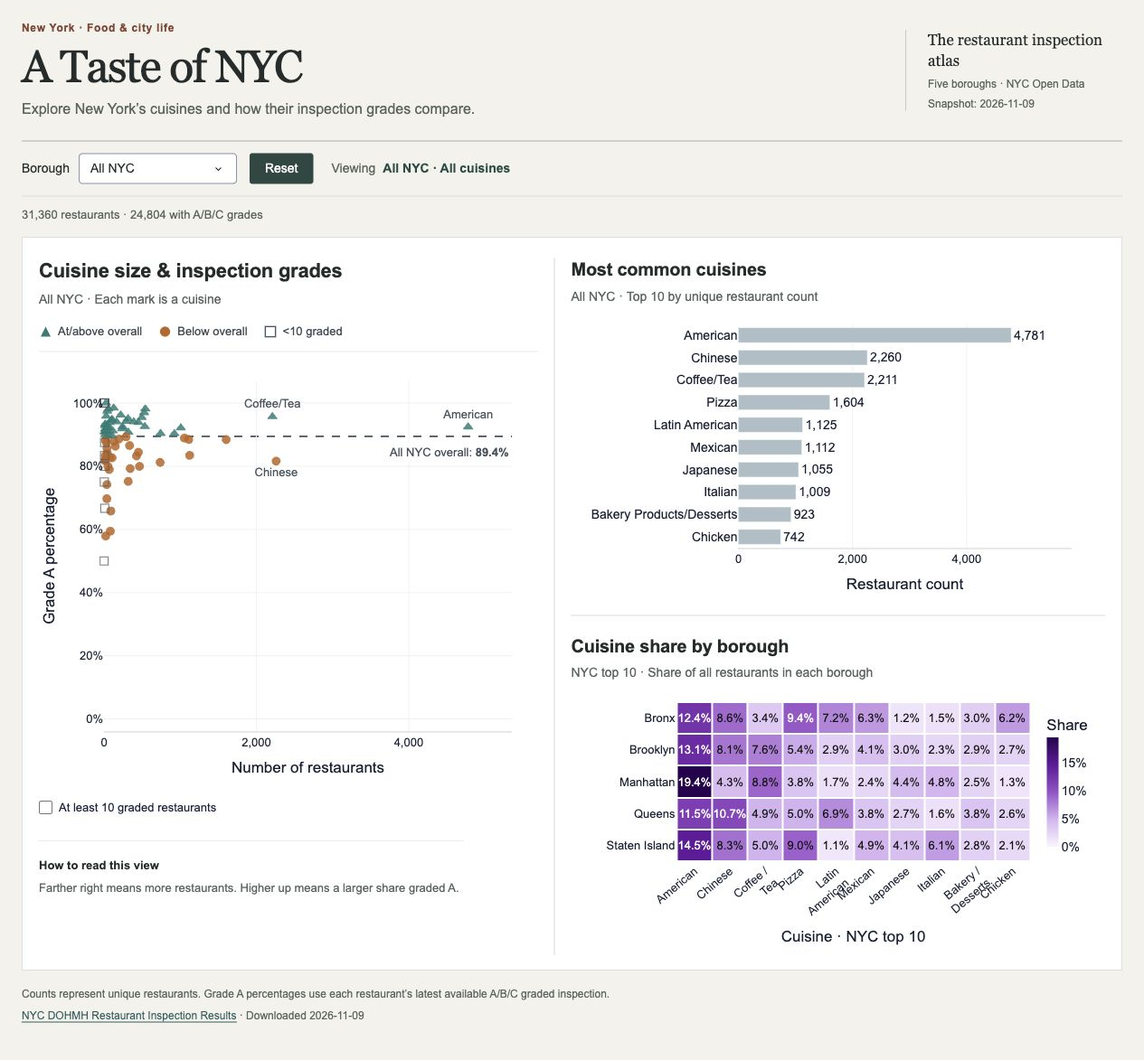
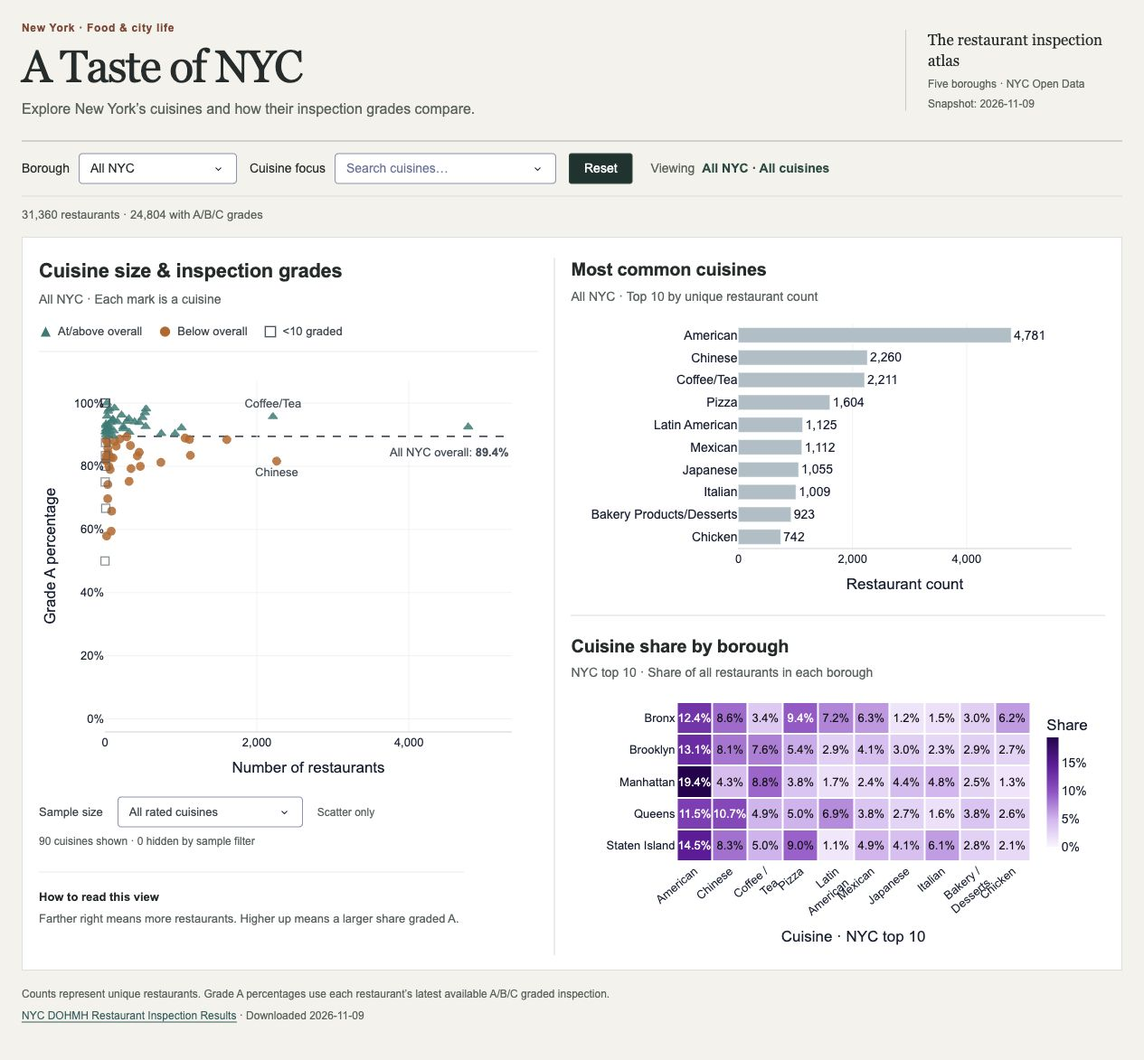
Add searchable cuisine focus and graded sample thresholds

diff --git a/a-taste-of-nyc/assets/style.css b/a-taste-of-nyc/assets/style.css
@@ -13,6 +13,9 @@ h1 { font-family: Georgia, serif; font-size: 50px; font-weight: 500; letter-spac
 .controls { display: flex; align-items: center; flex-wrap: wrap; gap: 14px; border-top: 1px solid #a6b2a8; border-bottom: 1px solid var(--line); padding: 13px 0; }
 .filter { display: flex; align-items: center; gap: 10px; font-size: 14px; }
 #borough { width: 175px; font-size: 14px; }
+#cuisine-focus { width: 245px; font-size: 14px; }
+#sample-filter { width: 205px; font-size: 13px; }
+.filter-scope { font-size: 12px; color: var(--muted); }
 button { background: #2c4742; color: #fff; border: 1px solid #2c4742; border-radius: 3px; padding: 8px 16px; font-size: 14px; font-weight: 400; cursor: pointer; }
 button:hover { background: #1b342f; }
 button:focus-visible, a:focus-visible { outline: 2px solid var(--accent); outline-offset: 3px; }
@@ -33,8 +36,8 @@ h2 { margin: 0; font-size: 21px; line-height: 1.3; font-weight: 600; letter-spac
 .key-mark { display: inline-block; width: 15px; height: 15px; flex-shrink: 0; }
 .sample-controls { display: flex; flex-wrap: wrap; align-items: center; gap: 6px 16px; margin-top: 12px; font-size: 13px; color: #414a50; }
 .sample-controls label { display: inline-flex; align-items: center; gap: 7px; font-weight: 400; cursor: pointer; }
-.sample-controls input { accent-color: var(--accent); width: 15px; height: 15px; margin: 0; }
-#sample-status { color: var(--muted); font-size: 12px; }
+
+#sample-status { flex-basis: 100%; line-height: 1.5; color: var(--muted); font-size: 12px; }
 #sample-status:empty { display: none; }
 footer { margin-top: 16px; line-height: 1.6; color: var(--muted); font-size: 12px; }
 footer p { margin: 0 0 5px; }
@@ -42,4 +45,4 @@ a { color: var(--accent); text-underline-offset: 3px; }
 @media (max-width: 1400px) { .page { padding: 24px; } .hint { display: none; } .chart-grid { padding: 22px 18px 16px; gap: 18px; } .right-column { padding-left: 18px; } .scatter-panel h2 { font-size: 22px; } h2 { font-size: 20px; } .edition { max-width: 240px; } }
 @media (max-width: 1150px) { .chart-grid { grid-template-columns: 1fr; gap: 30px; } .right-column { border-left: 0; padding-left: 0; gap: 26px; } .scatter-plot { height: 420px !important; } .reading-note { max-width: none; } }
 @media (max-width: 700px) { header { display: block; } .edition { display: none; } .heatmap-plot { min-width: 680px; } .panel:has(.heatmap-plot) { overflow-x: auto; } .panel:has(.heatmap-plot) .chart-subtitle::after { content: "Scroll horizontally to compare all cuisines →"; display: block; margin-top: 6px; color: var(--accent); } }
-@media (max-width: 550px) { .page { padding: 20px 12px; } h1 { font-size: 40px; } .intro { font-size: 15px; } header { margin-bottom: 18px; } .controls { gap: 10px; } .selection { margin-left: 0; width: 100%; flex-wrap: wrap; } #borough { width: 145px; } button { padding: 9px 13px; } .chart-grid { padding: 20px 12px; } h2, .scatter-panel h2 { font-size: 20px; } }
+@media (max-width: 550px) { .page { padding: 20px 12px; } h1 { font-size: 40px; } .intro { font-size: 15px; } header { margin-bottom: 18px; } .controls { gap: 10px; } .cuisine-filter { order: 1; width: 100%; } #cuisine-focus { flex: 1; width: auto; min-width: 0; } .selection { order: 2; } .selection { margin-left: 0; width: 100%; flex-wrap: wrap; } #borough { width: 145px; } button { padding: 9px 13px; } .chart-grid { padding: 20px 12px; } h2, .scatter-panel h2 { font-size: 20px; } }

diff --git a/a-taste-of-nyc/app.py b/a-taste-of-nyc/app.py
@@ -20,6 +20,7 @@ SMALL_SAMPLE = "#4a5963"
 BAR_BACKGROUND = "#aebfc6"
 SELECTED = "#355e6a"
 MISSING_CUISINE = "Unknown"
+SAMPLE_LIMITS = (1, 10, 25, 50, 100)
 HEAT_COLORS = [[0, "#faf5ff"], [0.25, "#d7b5f1"], [0.5, "#9950c9"], [0.75, "#63169b"], [1, "#29004f"]]
 INK = "#172033"
 CONFIG = {"displayModeBar": False, "responsive": True, "scrollZoom": False}
@@ -266,8 +267,6 @@ def select_state(trigger, borough, click_data, selected, heat_cuisines):
         cuisine = custom[0] if isinstance(custom, (list, tuple)) and custom else point.get("y") if trigger == "bar" else None
         if cuisine in heat_cuisines:
             selected = cuisine
-    if trigger == "borough":
-        selected = None
     return borough if borough in ["All NYC", *BOROUGHS] else "All NYC", selected
 
 
@@ -290,6 +289,9 @@ def create_app(frame=None, metadata=None):
         html.Div([
             html.Div([html.Label("Borough", htmlFor="borough"),
                       dcc.Dropdown(id="borough", options=["All NYC", *BOROUGHS], value="All NYC", clearable=False, searchable=False)], className="filter"),
+            html.Div([html.Label("Cuisine focus", htmlFor="cuisine-focus"),
+                      dcc.Dropdown(id="cuisine-focus", options=sorted(all_cuisines), value=None,
+                                   placeholder="Search cuisines…", clearable=True, searchable=True)], className="filter cuisine-filter"),
             html.Button("Reset", id="reset", n_clicks=0),
             html.Div([html.Span("Viewing", className="selection-label"), html.Strong(id="selection")], className="selection", **{"aria-live": "polite"}),
             html.P("Click any chart to select a cuisine.", className="hint"),
@@ -308,7 +310,11 @@ def create_app(frame=None, metadata=None):
                 ], className="plot-key"),
                 dcc.Graph(id="scatter", config=CONFIG, responsive=True, style={"height": "470px"}, className="scatter-plot"),
                 html.Div([
-                    dcc.Checklist(id="sample-filter", options=[{"label": "At least 10 graded restaurants", "value": "ten"}], value=[]),
+                    html.Label("Sample size", htmlFor="sample-filter"),
+                    dcc.Dropdown(id="sample-filter", options=[
+                        {"label": "All rated cuisines" if n == 1 else f"{n}+ graded restaurants", "value": n}
+                        for n in SAMPLE_LIMITS], value=1, clearable=False, searchable=False),
+                    html.Span("Scatter only", className="filter-scope"),
                     html.Span(id="sample-status", **{"aria-live": "polite"}),
                 ], className="sample-controls"),
                 html.P([html.Strong("How to read this view"),
@@ -343,24 +349,31 @@ def create_app(frame=None, metadata=None):
         Output("heatmap", "figure"),
         Output("bar", "clickData"), Output("scatter", "clickData"),
         Output("sample-filter", "value"), Output("sample-status", "children"), Output("heatmap-title", "children"),
+        Output("cuisine-focus", "value"), Output("cuisine-focus", "options"),
         Input("borough", "value"), Input("heatmap", "clickData"), Input("reset", "n_clicks"),
         Input("bar", "clickData"), Input("scatter", "clickData"), Input("sample-filter", "value"),
+        Input("cuisine-focus", "value"),
         State("selected-cuisine", "data"),
     )
-    def update(borough, click_data, reset_clicks, bar_click, scatter_click, sample_filter, selected):
+    def update(borough, click_data, reset_clicks, bar_click, scatter_click, sample_filter, cuisine_focus, selected):
         trigger = ctx.triggered_id
         click = {"heatmap": click_data, "bar": bar_click, "scatter": scatter_click}.get(trigger)
         borough, selected = select_state(trigger, borough, click, selected, all_cuisines)
-        sample_filter = [] if trigger == "reset" else (sample_filter or [])
-        minimum = 10 if "ten" in sample_filter else 1
+        if trigger == "cuisine-focus":
+            selected = cuisine_focus if cuisine_focus in all_cuisines else None
+        minimum = sample_filter if sample_filter in SAMPLE_LIMITS and trigger != "reset" else 1
         subset = frame if borough == "All NYC" else frame[frame.borough.eq(borough)]
         summary = cuisine_summary(subset)
+        counts = summary.set_index("cuisine").restaurants.to_dict()
+        cuisine_options = [{"label": f"{c} · {int(counts.get(c, 0)):,}", "value": c}
+                           for c in sorted(all_cuisines)]
         bar, extra = bar_figure(summary, selected, borough)
         rated = int(subset.grade.isin(["A", "B", "C"]).sum())
         metrics = f"{len(subset):,} restaurants · {rated:,} with A/B/C grades"
         omitted = int((summary.rated.eq(0) & summary.cuisine.ne(MISSING_CUISINE)).sum())
         hidden = int(((summary.rated > 0) & (summary.rated < minimum) & summary.cuisine.ne(MISSING_CUISINE)).sum())
-        sample_status = f"{hidden} cuisines hidden by sample filter" if minimum > 1 else ""
+        visible = int(((summary.rated >= minimum) & summary.cuisine.ne(MISSING_CUISINE)).sum())
+        sample_status = f"{visible} cuisines shown · {hidden} hidden by sample filter"
         if omitted:
             sample_status += (" · " if sample_status else "") + f"{omitted} with no grade not plotted"
         if selected:
@@ -370,15 +383,16 @@ def create_app(frame=None, metadata=None):
             elif int(row.iloc[0].rated) == 0:
                 sample_status += (" · " if sample_status else "") + f"{selected}: no valid grade"
             elif int(row.iloc[0].rated) < minimum:
-                sample_status += f" · {selected} is hidden ({int(row.iloc[0].rated)} graded); turn off the filter to see it"
+                sample_status += f" · {selected} is hidden ({int(row.iloc[0].rated)} graded); lower the sample minimum to see it"
         return (borough, selected, None, scatter_figure(summary, selected, borough, minimum), bar,
                 f"{borough} · {selected or 'All cuisines'}", metrics,
                 f"{borough} · Each mark is a cuisine",
                 f"{borough} · Top 10 by unique restaurant count",
                 "Most common cuisines" + (" · + selected" if extra else ""),
                 heatmap_figure(frame, borough, selected)[0],
-                None, None, sample_filter, sample_status,
-                "Cuisine share by borough" + (" · + selected" if selected and selected not in heat_cuisines else ""))
+                None, None, minimum, sample_status,
+                "Cuisine share by borough" + (" · + selected" if selected and selected not in heat_cuisines else ""),
+                selected, cuisine_options)
 
     return app
 

diff --git a/a-taste-of-nyc/test_dashboard.py b/a-taste-of-nyc/test_dashboard.py
@@ -99,7 +99,7 @@ class RealSnapshotTests(unittest.TestCase):
         click = {"points": [{"x": "Chinese", "y": "Brooklyn"}]}
         self.assertEqual(select_state("heatmap", "All NYC", click, None, ["Chinese"]), ("Brooklyn", "Chinese"))
         self.assertEqual(select_state("reset", "Brooklyn", click, "Chinese", ["Chinese"]), ("All NYC", None))
-        self.assertEqual(select_state("borough", "Queens", None, "Chinese", ["Chinese"]), ("Queens", None))
+        self.assertEqual(select_state("borough", "Queens", None, "Chinese", ["Chinese"]), ("Queens", "Chinese"))
 
     def test_missing_cuisine_really_missing_in_all_source_records(self):
         raw = read_raw(DATA / "nyc_inspections.csv.gz")
@@ -163,11 +163,11 @@ class RealSnapshotTests(unittest.TestCase):
         client = app.server.test_client()
         key, callback = next(iter(app.callback_map.items()))
 
-        def update(trigger, borough="All NYC", cuisine=None, click=None, sample=None):
+        def update(trigger, borough="All NYC", cuisine=None, click=None, sample=1, focus=None):
             values = [borough, click if trigger == "heatmap" else None, 1,
-                      click if trigger == "bar" else None, click if trigger == "scatter" else None, sample or []]
+                      click if trigger == "bar" else None, click if trigger == "scatter" else None, sample, focus]
             inputs = [dict(item, value=value) for item, value in zip(callback["inputs"], values)]
-            prop = "value" if trigger in ("borough", "sample-filter") else "n_clicks" if trigger == "reset" else "clickData"
+            prop = "value" if trigger in ("borough", "sample-filter", "cuisine-focus") else "n_clicks" if trigger == "reset" else "clickData"
             response = client.post("/_dash-update-component", json={
                 "output": key, "outputs": [{"id": o.component_id, "property": o.component_property} for o in callback["output"]],
                 "inputs": inputs, "state": [{"id": "selected-cuisine", "property": "data", "value": cuisine}],
@@ -190,16 +190,38 @@ class RealSnapshotTests(unittest.TestCase):
         self.assertIn(rare, selected["bar"]["figure"]["data"][0]["y"])
         self.assertIn("Selected cuisine · Rank", str(selected["bar"]["figure"]["layout"]["yaxis"]["ticktext"]))
         self.assertEqual(len(selected["heatmap"]["figure"]["data"][0]["x"]), 11)
-        filtered = update("sample-filter", cuisine=rare, sample=["ten"])
+        filtered = update("sample-filter", cuisine=rare, sample=10)
         self.assertIn("is hidden", filtered["sample-status"]["children"])
         self.assertEqual(filtered["selected-cuisine"]["data"], rare)
         for trace in filtered["scatter"]["figure"]["data"]:
             self.assertTrue(all(row[2] >= 10 for row in trace["customdata"]))
         self.assertEqual(selected["scatter"]["figure"]["layout"]["shapes"], filtered["scatter"]["figure"]["layout"]["shapes"])
         self.assertEqual(selected["heatmap"]["figure"]["data"][0]["zmax"], filtered["heatmap"]["figure"]["data"][0]["zmax"])
-        reset = update("reset", "Brooklyn", rare, sample=["ten"])
+        reset = update("reset", "Brooklyn", rare, sample=10)
         self.assertEqual(reset["selection"]["children"], "All NYC · All cuisines")
-        self.assertEqual(reset["sample-filter"]["value"], [])
+        self.assertEqual(reset["sample-filter"]["value"], 1)
+        self.assertIsNone(reset["cuisine-focus"]["value"])
+        focused = update("cuisine-focus", focus="Chinese")
+        self.assertEqual(focused["cuisine-focus"]["value"], "Chinese")
+        self.assertEqual(focused["selection"]["children"], "All NYC · Chinese")
+        self.assertEqual(len(focused["heatmap"]["figure"]["layout"]["shapes"]), 10)
+        moved = update("borough", "Brooklyn", "Chinese", sample=25, focus="Chinese")
+        self.assertEqual(moved["selection"]["children"], "Brooklyn · Chinese")
+        self.assertIn({"label": "Chinese · 647", "value": "Chinese"}, moved["cuisine-focus"]["options"])
+        cleared = update("cuisine-focus", "Brooklyn", "Chinese", sample=25)
+        self.assertEqual(cleared["selection"]["children"], "Brooklyn · All cuisines")
+        self.assertEqual(cleared["sample-filter"]["value"], 25)
+        for limit in (1, 10, 25, 50, 100):
+            filtered = update("sample-filter", sample=limit)
+            traces = filtered["scatter"]["figure"]["data"]
+            plotted = {r[0] for t in traces for r in t["customdata"]}
+            expected = set(summary.loc[(summary.rated >= limit) & summary.cuisine.ne("Unknown"), "cuisine"])
+            self.assertEqual(plotted, expected)
+            self.assertEqual(filtered["metrics"], focused["metrics"])
+            self.assertEqual(filtered["scatter"]["figure"]["layout"]["shapes"], focused["scatter"]["figure"]["layout"]["shapes"])
+        absent = next(c for c in summary.cuisine if c != "Unknown" and c not in set(self.frame.loc[self.frame.borough.eq("Staten Island"), "cuisine"]))
+        no_data = update("cuisine-focus", "Staten Island", focus=absent)
+        self.assertIn("no restaurants in this borough", no_data["sample-status"]["children"])
 
     def test_hover_denominators_and_context(self):
         frame = self.frame[self.frame.borough.eq("Brooklyn")]

diff --git a/a-taste-of-nyc/check_browser.py b/a-taste-of-nyc/check_browser.py
@@ -77,20 +77,28 @@ def run():
         page.locator("#bar .barlayer .point").nth(4).click()
         expect(page.locator("#selection")).to_have_text("Brooklyn · Caribbean")
         expect(page.locator("#heatmap-title")).to_contain_text("+ selected")
-        page.get_by_role("checkbox", name="At least 10 graded restaurants").check()
-        expect(page.locator("#sample-status")).to_contain_text("24 cuisines hidden")
+        page.locator("#sample-filter").click()
+        page.get_by_role("radio", name="10+ graded restaurants", exact=True).click()
+        expect(page.locator("#sample-status")).to_contain_text("24 hidden by sample filter")
         page.get_by_role("button", name="Reset", exact=True).click()
         expect(page.locator("#selection")).to_have_text("All NYC · All cuisines")
-        expect(page.get_by_role("checkbox", name="At least 10 graded restaurants")).not_to_be_checked()
+        expect(page.locator("#sample-filter")).to_contain_text("All rated cuisines")
         expect(page.locator("#metrics")).to_contain_text("31,360")
+        # Search a cuisine outside the initial Top 10 and sync the shared selection.
+        page.locator("#cuisine-focus").click()
+        page.get_by_role("searchbox").fill("Caribbean")
+        page.get_by_role("radio", name="Caribbean ·", exact=False).click()
+        expect(page.locator("#selection")).to_have_text("All NYC · Caribbean")
+        expect(page.locator("#heatmap-title")).to_contain_text("+ selected")
+        page.get_by_role("button", name="Reset", exact=True).click()
         # Reclicking the same cell after Reset must work (stale clickData regression).
         cell("Brooklyn", "Chinese")
         expect(page.locator("#selection")).to_have_text("Brooklyn · Chinese")
         counts = {"Bronx": "2,637", "Brooklyn": "8,021", "Manhattan": "12,576", "Queens": "7,005", "Staten Island": "1,121"}
         for borough, count in counts.items():
             page.locator("#borough").click()
-            page.get_by_role("option", name=borough, exact=True).click()
-            expect(page.locator("#selection")).to_have_text(f"{borough} · All cuisines")
+            page.get_by_role("radio", name=borough, exact=True).click()
+            expect(page.locator("#selection")).to_have_text(f"{borough} · Chinese")
             expect(page.locator("#metrics")).to_contain_text(count)
             expect(page.locator("#scatter-scope")).to_contain_text(borough)
         page.get_by_role("button", name="Reset", exact=True).click()

diff --git a/a-taste-of-nyc/README.md b/a-taste-of-nyc/README.md
@@ -59,7 +59,7 @@ Grade is attached to the restaurant's latest valid borough/cuisine information. 
 
 **Grade A denominator:** only A/B/C-rated restaurants. Missing grades, N, Z, P and other values never become non-A observations. A zero graded denominator means **no data**, not 0%.
 
-- **Scatter / RQ3:** X = restaurant count (linear); Y = Grade A percentage; one point per recorded cuisine with at least one valid grade. The dashed line is the pooled Grade A rate for the selected scope, including every validly graded restaurant. For cuisines with at least 10 graded restaurants, teal triangles = at or above that rate and warm orange circles = below it. Cuisines with 1–9 graded restaurants always use a gray hollow square, regardless of which side of the benchmark they fall on. These are three mutually exclusive shape groups. The dashed line has one directly attached scope-and-percentage label; its meaning is not repeated in a separate legend. The selected cuisine keeps its comparison color, with a black outline and label. Markers are smaller and semi-transparent; fewer than 10 graded restaurants use hollow squares. The legend shows one triangle, one circle and one square; all legend symbols use consistent SVG dimensions. The optional **At least 10 graded restaurants** checkbox is off by default. When enabled, it hides cuisines with fewer than 10 valid grades only from scatter, displays the number hidden, and leaves all totals and the pooled benchmark unchanged. A selected cuisine hidden by this filter is explicitly named beside the checkbox. Zero-rated cuisines are not plotted on a numeric percentage axis. Above/below overall is descriptive, not statistical significance or causation.
+- **Scatter / RQ3:** X = restaurant count (linear); Y = Grade A percentage; one point per recorded cuisine with at least one valid grade. The dashed line is the pooled Grade A rate for the selected scope, including every validly graded restaurant. For cuisines with at least 10 graded restaurants, teal triangles = at or above that rate and warm orange circles = below it. Cuisines with 1–9 graded restaurants always use a gray hollow square, regardless of which side of the benchmark they fall on. These are three mutually exclusive shape groups. The dashed line has one directly attached scope-and-percentage label; its meaning is not repeated in a separate legend. The selected cuisine keeps its comparison color, with a black outline and label. Markers are smaller and semi-transparent; fewer than 10 graded restaurants use hollow squares. The legend shows one triangle, one circle and one square; all legend symbols use consistent SVG dimensions. The **Sample size** dropdown offers all rated cuisines (default), or a minimum of 10, 25, 50 or 100 A/B/C-rated restaurants. This filters only scatter, reports shown/hidden cuisine counts, and leaves totals and the pooled benchmark unchanged. A selected cuisine hidden by the minimum is named explicitly beside the control. Zero-rated cuisines are not plotted on a numeric percentage axis. Above/below overall is descriptive, not statistical significance or causation.
 - **Bar / RQ1:** descending restaurant count, Top 10 recorded cuisines in the selected borough. If any chart selection falls outside that Top 10, append the selected cuisine, disclose this in the title, and show its actual rank among recorded cuisines. Ordinary bars are gray-blue; a dark desaturated teal bar and bold cuisine label identify selection. Counts remain at bar ends; the former arrow and redundant Cuisine axis title are removed. Ties are alphabetical.
 - **Heatmap / RQ2:** five boroughs × citywide Top 10 recorded cuisines. Purple intensity represents borough share, and every cell displays its percentage. Text switches to white on darker cells. All five cells in the selected cuisine column have thin outlines; the active borough–cuisine cell has a heavier outline and the active borough label is bold. A cuisine selected from scatter/bar outside the NYC Top 10 is appended as an eleventh column. All five boroughs and the citywide color scale remain fixed across selections. The nearby subtitle explicitly says “NYC top 10 · Share of all restaurants in each borough”; all five borough names remain visible. All borough restaurants, including Cuisine not recorded, remain in the denominator. Zero-count combinations remain 0%; zero denominators are no data.
 
@@ -93,7 +93,7 @@ The saved audit is [data/cuisine_missingness_audit.json](data/cuisine_missingnes
 
 These refinements retain Option B and the original chart types and axes. The added reference line and binary comparison colors strengthen RQ3. No logarithmic axis or arbitrary cuisine palette was introduced. The selected scatter point is labeled, with up to three common cuisines labeled where approximate text-box checks find room. The chart numbering was removed; the original research-question mapping remains RQ3 / RQ1 / RQ2.
 
-The editorial revision uses a warm off-white page, a 50 px serif desktop title (40 px on phones), and a single white canvas containing all three charts. Chart titles are 21–24 px on wide screens, scope subtitles 14 px, and plot labels 13–15 px. A small subject line and source/snapshot block frame the heading; dark green controls and selection text establish hierarchy without separate KPI cards. Thin separators organize the views. The scatter legend contains exactly one triangle, circle and hollow square. The sample filter and a short reading guide sit below scatter, and detailed methodology is kept in this README. Heatmap labels retain their 40° angle. The full heatmap and its color scale fit the checked 1280 px laptop layout; below 700 px the heatmap scrolls within its own panel. Data and selection behavior are unchanged. The revised layout was inspected at 1600, 1280 and 390 px widths.
+The editorial revision uses a warm off-white page, a 50 px serif desktop title (40 px on phones), and a single white canvas containing all three charts. Chart titles are 21–24 px on wide screens, scope subtitles 14 px, and plot labels 13–15 px. A small subject line and source/snapshot block frame the heading; dark green controls and selection text establish hierarchy without separate KPI cards. Thin separators organize the views. The scatter legend contains exactly one triangle, circle and hollow square. The sample filter and a short reading guide sit below scatter, and detailed methodology is kept in this README. Heatmap labels retain their 40° angle. The full heatmap and its color scale fit the checked 1280 px laptop layout; below 700 px the heatmap scrolls within its own panel. The data and metric definitions are unchanged. Cuisine search and configurable sample thresholds extend the original controls. The revised layout was inspected at 1600, 1280 and 390 px widths.
 
 Design references inspected for this revision: [The Pudding’s restaurant story](https://pudding.cool/2018/02/restaurants/), [Our World in Data’s scatter explorer](https://ourworldindata.org/grapher/life-expectancy-vs-gdp-per-capita?time=2020), and [Datawrapper scatter examples](https://www.datawrapper.de/docs/examples-of-datawrapper-scatter-plots). These informed the simpler typography, quieter controls and direct chart annotations. The implementation is original; no site assets were copied.
 
@@ -103,13 +103,14 @@ Design references inspected for this revision: [The Pudding’s restaurant story
 2. Click **Chinese** in the bar: scatter labels/outlines Chinese, and heatmap outlines its entire column. Click **American** in scatter: the bar and heatmap switch to American.
 3. Click **Brooklyn × Chinese** on the heatmap. The dropdown changes to Brooklyn; bar and scatter recompute, and all three charts highlight Chinese. The selected heatmap cell is outlined more heavily than the other four cells in that column.
 4. Click **Brooklyn × Italian**: Italian is appended to Brooklyn's bar with **Selected cuisine · Rank 11**. Click **Caribbean** in that bar: heatmap adds Caribbean as an extra column because it is outside the NYC Top 10.
-5. Enable **At least 10 graded restaurants**. Brooklyn hides **24 cuisines** from scatter; the other charts, counts and overall reference remain unchanged. The control is off by default. Zero-rated cuisines cannot appear on the percentage axis and are reported separately.
+5. Choose **10+ graded restaurants** under **Sample size**. Brooklyn hides **24 cuisines** from scatter; the other charts, counts and overall reference remain unchanged. Other thresholds are 25, 50 and 100; **All rated cuisines** is the default. Zero-rated cuisines cannot appear on the percentage axis and are reported separately.
 6. Hover over each chart. Scatter shows cuisine, borough, total restaurants, A/B/C-rated count, Grade A count and Grade A percentage. Bar shows cuisine, borough, count, share of all restaurants and rank. Heatmap shows borough, cuisine, count, share and its full-borough denominator.
-7. Click **Reset** to return to All NYC, clear the cuisine and turn off the sample filter. Clicking the same mark again works. Manual borough changes clear cuisine selection and retain the sample-filter setting.
+7. Use **Cuisine focus** to search any recorded cuisine, including those outside the initial Top 10. Each option shows its restaurant count in the current borough; a zero-count selection has an explicit no-data message. This highlights the cuisine across all charts while retaining comparison categories. Chart clicks update the same dropdown. Clearing the dropdown removes the cuisine focus.
+8. Click **Reset** to return to All NYC, clear the cuisine and restore **All rated cuisines**. Clicking the same mark again works. Manual borough changes retain cuisine focus and the sample minimum, allowing comparison of the same cuisine across boroughs.
 
 The three chart click paths, the Italian rank-11 case, the appended Caribbean column, sample filtering, Reset and repeated selection were exercised in the running browser on November 9, 2026. On November 11, the editorial revision was also checked in the running browser, including bar, scatter and heatmap selection and Reset. The two screenshots were refreshed after the editorial revision; screenshots supplement the interactive demonstration rather than proving it alone.
 
-Below 1150 px, chart panels stack vertically. When the heatmap cannot fit readable columns, it scrolls horizontally within its panel; the narrow-screen subtitle explains this. Mouse/touch chart marks initiate selection; keyboard-only chart-mark navigation is not implemented. Borough selection, the sample checkbox and Reset are keyboard accessible.
+Below 1150 px, chart panels stack vertically. When the heatmap cannot fit readable columns, it scrolls horizontally within its panel; the narrow-screen subtitle explains this. Mouse/touch chart marks initiate selection; keyboard-only chart-mark navigation is not implemented. Borough, cuisine search, sample-size dropdown and Reset are keyboard accessible.
 
 ## Rebuild or refresh data
 
@@ -143,7 +144,7 @@ Run the analytical and boundary-case tests:
 python -m unittest -v
 ```
 
-Thirteen tests cover duplicate violations, independent latest grades, missing attributes, invalid dates, conflict handling, zero graded denominators, empty plots, five-borough reconciliations, every heatmap cell's full-population denominator, independent raw-row grade reconstruction, outside-Top-10 selection, Reset state and Dash HTTP routes. Added checks verify source missingness, pooled benchmark weighting, preservation of comparison colors on selection, heatmap values/outlines, and a fixed citywide color scale. Callback HTTP tests exercise all three click inputs, sample filtering without changing the benchmark, out-of-Top-10 additions, tooltip denominators and Reset.
+Thirteen tests cover duplicate violations, independent latest grades, missing attributes, invalid dates, conflict handling, zero graded denominators, empty plots, five-borough reconciliations, every heatmap cell's full-population denominator, independent raw-row grade reconstruction, outside-Top-10 selection, Reset state and Dash HTTP routes. Added checks verify source missingness, pooled benchmark weighting, preservation of comparison colors on selection, heatmap values/outlines, and a fixed citywide color scale. Callback HTTP tests exercise all three click inputs, sample filtering without changing the benchmark, out-of-Top-10 additions, tooltip denominators and Reset. The expanded checks also cover cuisine search/clearing, retaining focus across boroughs, all five sample thresholds, unchanged benchmark/totals and a cuisine absent from the selected borough.
 
 Optional real-browser check (app running, Google Chrome installed):
 
